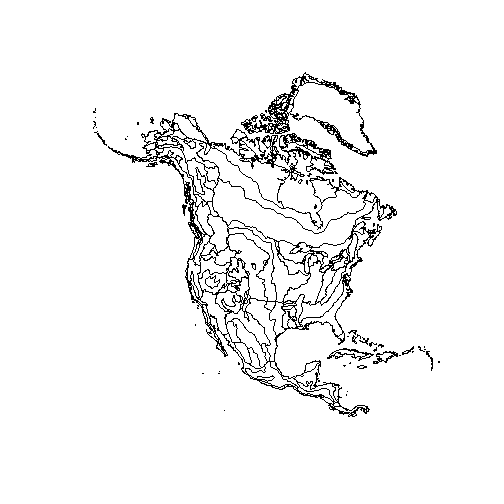
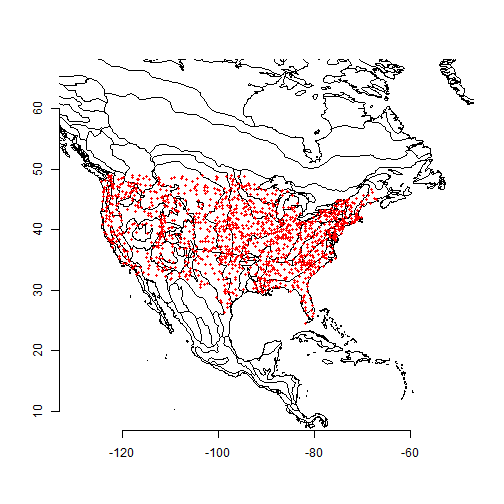
Added some formatting changes to the first day's workshop.

diff --git a/doc/Day_One.html b/doc/Day_One.html
@@ -193,37 +193,43 @@ hljs.initHighlightingOnLoad();
 <th>Contents</th>
 <th>File Type</th>
 <th>open file function</th>
+<th>package</th>
 </tr>
 </thead><tbody>
 <tr>
 <td>input</td>
-<td>compiled.pollen.RData</td>
+<td><code>compiled.pollen.RData</code></td>
 <td>R data file</td>
-<td><code>load</code> {base}</td>
+<td><code>load</code></td>
+<td>{base}</td>
 </tr>
 <tr>
 <td>input\Ecoregions_NA</td>
 <td><code>na_regns</code></td>
 <td>Shapefile</td>
-<td><code>readOGR</code> {rgdal}</td>
+<td><code>readOGR</code></td>
+<td>{rgdal}</td>
 </tr>
 <tr>
 <td>input\PalEONSites</td>
-<td>PaleonSites</td>
+<td><code>PaleonSites</code></td>
 <td>Shapefile</td>
-<td><code>readOGR</code> {rgdal}</td>
+<td><code>readOGR</code></td>
+<td>{rgdal}</td>
 </tr>
 <tr>
 <td>input\USHCN</td>
-<td>9641C_201112_F52.pcp</td>
+<td><code>9641C_201112_F52.pcp</code></td>
 <td>fixed width text file</td>
-<td><code>read_fwf</code> {base}</td>
+<td><code>read_fwf</code></td>
+<td>{base}</td>
 </tr>
 <tr>
 <td>input\USHCN</td>
-<td>ushcn-stations.csv</td>
+<td><code>ushcn-stations.csv</code></td>
 <td>comma separated values</td>
-<td><code>read.csv</code> {base}</td>
+<td><code>read.csv</code></td>
+<td>{base}</td>
 </tr>
 </tbody></table>
 
@@ -298,11 +304,17 @@ ecozones &lt;- readOGR(dsn = file, layer = &quot;na_regns&quot;)
 # reproject ecozones
 ecozones_ll &lt;- spTransform(ecozones, CRSobj = CRS(&quot;+proj=longlat +ellps=WGS84&quot;))
 
-plot(ecozones)
-points(Lat ~ Long, data = stations)
+plot(ecozones_ll, xlim = c(-130, -50), ylim = c(25, 50))
+points(Lat ~ Long, data = stations, pch = 19, cex = 0.5, col = 2)
+axis(1)
+axis(2)
 </code></pre>
 
[2 lines of base64/hex data omitted]
+
+<p>So there is the distribution of points within the continental United States.  Easy peasy!</p>
+
+<p>Next we&#39;re going to do some basic analysis on the data.</p>
 
 <p>[1]: See <a href="http://downwithtime.wordpress.com/2013/09/13/writing-and-collaborating-on-github-a-primer-for-paleoecologists/">Getting started with GitHub</a> for an example.</p>
 

diff --git a/README.html b/README.html
@@ -1,0 +1,158 @@
+<!DOCTYPE html>
+<!-- saved from url=(0014)about:internet -->
+<html>
+<head>
+<meta http-equiv="Content-Type" content="text/html; charset=utf-8"/>
+<meta http-equiv="x-ua-compatible" content="IE=9" >
+
+<title>WiscGeo_Workshop</title>
+
+<style type="text/css">
+body, td {
+   font-family: sans-serif;
+   background-color: white;
+   font-size: 12px;
+   margin: 8px;
+}
+
+tt, code, pre {
+   font-family: 'DejaVu Sans Mono', 'Droid Sans Mono', 'Lucida Console', Consolas, Monaco, monospace;
+}
+
+h1 { 
+   font-size:2.2em; 
+}
+
+h2 { 
+   font-size:1.8em; 
+}
+
+h3 { 
+   font-size:1.4em; 
+}
+
+h4 { 
+   font-size:1.0em; 
+}
+
+h5 { 
+   font-size:0.9em; 
+}
+
+h6 { 
+   font-size:0.8em; 
+}
+
+a:visited {
+   color: rgb(50%, 0%, 50%);
+}
+
+pre {	
+   margin-top: 0;
+   max-width: 95%;
+   border: 1px solid #ccc;
+   white-space: pre-wrap;
+}
+
+pre code {
+   display: block; padding: 0.5em;
+}
+
+code.r, code.cpp {
+   background-color: #F8F8F8;
+}
+
+table, td, th {
+  border: none;
+}
+
+blockquote {
+   color:#666666;
+   margin:0;
+   padding-left: 1em;
+   border-left: 0.5em #EEE solid;
+}
+
+hr {
+   height: 0px;
+   border-bottom: none;
+   border-top-width: thin;
+   border-top-style: dotted;
+   border-top-color: #999999;
+}
+
+@media print {
+   * { 
+      background: transparent !important; 
+      color: black !important; 
+      filter:none !important; 
+      -ms-filter: none !important; 
+   }
+
+   body { 
+      font-size:12pt; 
+      max-width:100%; 
+   }
+       
+   a, a:visited { 
+      text-decoration: underline; 
+   }
+
+   hr { 
+      visibility: hidden;
+      page-break-before: always;
+   }
+
+   pre, blockquote { 
+      padding-right: 1em; 
+      page-break-inside: avoid; 
+   }
+
+   tr, img { 
+      page-break-inside: avoid; 
+   }
+
+   img { 
+      max-width: 100% !important; 
+   }
+
+   @page :left { 
+      margin: 15mm 20mm 15mm 10mm; 
+   }
+     
+   @page :right { 
+      margin: 15mm 10mm 15mm 20mm; 
+   }
+
+   p, h2, h3 { 
+      orphans: 3; widows: 3; 
+   }
+
+   h2, h3 { 
+      page-break-after: avoid; 
+   }
+}
+
+</style>
+
+
+
+
+
+</head>
+
+<body>
+<h1>WiscGeo_Workshop</h1>
+
+<p>Notes and files for the ongoing workshop for <strong>WiscGeo</strong> grad students.</p>
+
+<p>Contents include:</p>
+
+<ul>
+<li><a href="doc/Day_One.md">Opening files and getting started.</a></li>
+</ul>
+
+</body>
+
+</html>
+

diff --git a/doc/Day_One.md b/doc/Day_One.md
@@ -7,13 +7,13 @@ This workshop is to help you see how to start a project (using pre-defined data)
 
 If you've created a GitHub account and forked (and cloned) this repository you will see that you have a number of folders[1].  The repository already has a few folders filled.  In particular, take a look at `data`.  
 
-Folder | Contents | File Type | open file function
----------- | -------- | ----- | -----------
-input  | compiled.pollen.RData | R data file | `load` {base}
-input\Ecoregions_NA | `na_regns` | Shapefile | `readOGR` {rgdal}
-input\PalEONSites | PaleonSites | Shapefile  | `readOGR` {rgdal}
-input\USHCN | 9641C_201112_F52.pcp | fixed width text file | `read_fwf` {base}
-input\USHCN | ushcn-stations.csv   | comma separated values | `read.csv` {base}
+Folder | Contents | File Type | open file function | package
+---------- | -------- | ----- | ----------- | ---------
+input  | `compiled.pollen.RData` | R data file | `load` | {base}
+input\Ecoregions_NA | `na_regns` | Shapefile | `readOGR` | {rgdal}
+input\PalEONSites | `PaleonSites` | Shapefile  | `readOGR` | {rgdal}
+input\USHCN | `9641C_201112_F52.pcp` | fixed width text file | `read_fwf` | {base}
+input\USHCN | `ushcn-stations.csv`   | comma separated values | `read.csv` | {base}
 
 So here we have three kinds of data (generally).  We have spatial data for North American ecozones, we have spatio-temporal data for precipiation (over the last 110 years) for the United States and we have spatio-temporal pollen data across North America for the last ~21000 years.
 
@@ -98,11 +98,18 @@ ecozones <- readOGR(dsn = file, layer = "na_regns")
 # reproject ecozones
 ecozones_ll <- spTransform(ecozones, CRSobj = CRS("+proj=longlat +ellps=WGS84"))
 
-plot(ecozones)
-points(Lat ~ Long, data = stations)
+plot(ecozones_ll, xlim = c(-130, -50), ylim = c(25, 50))
+points(Lat ~ Long, data = stations, pch = 19, cex = 0.5, col = 2)
+axis(1)
+axis(2)
 ```
 
 ![plot of chunk unnamed-chunk-2](figure/unnamed-chunk-2.png) 
+
+
+So there is the distribution of points within the continental United States.  Easy peasy!
+
+Next we're going to do some basic analysis on the data.
 
 
 [1]: See [Getting started with GitHub](http://downwithtime.wordpress.com/2013/09/13/writing-and-collaborating-on-github-a-primer-for-paleoecologists/) for an example.
